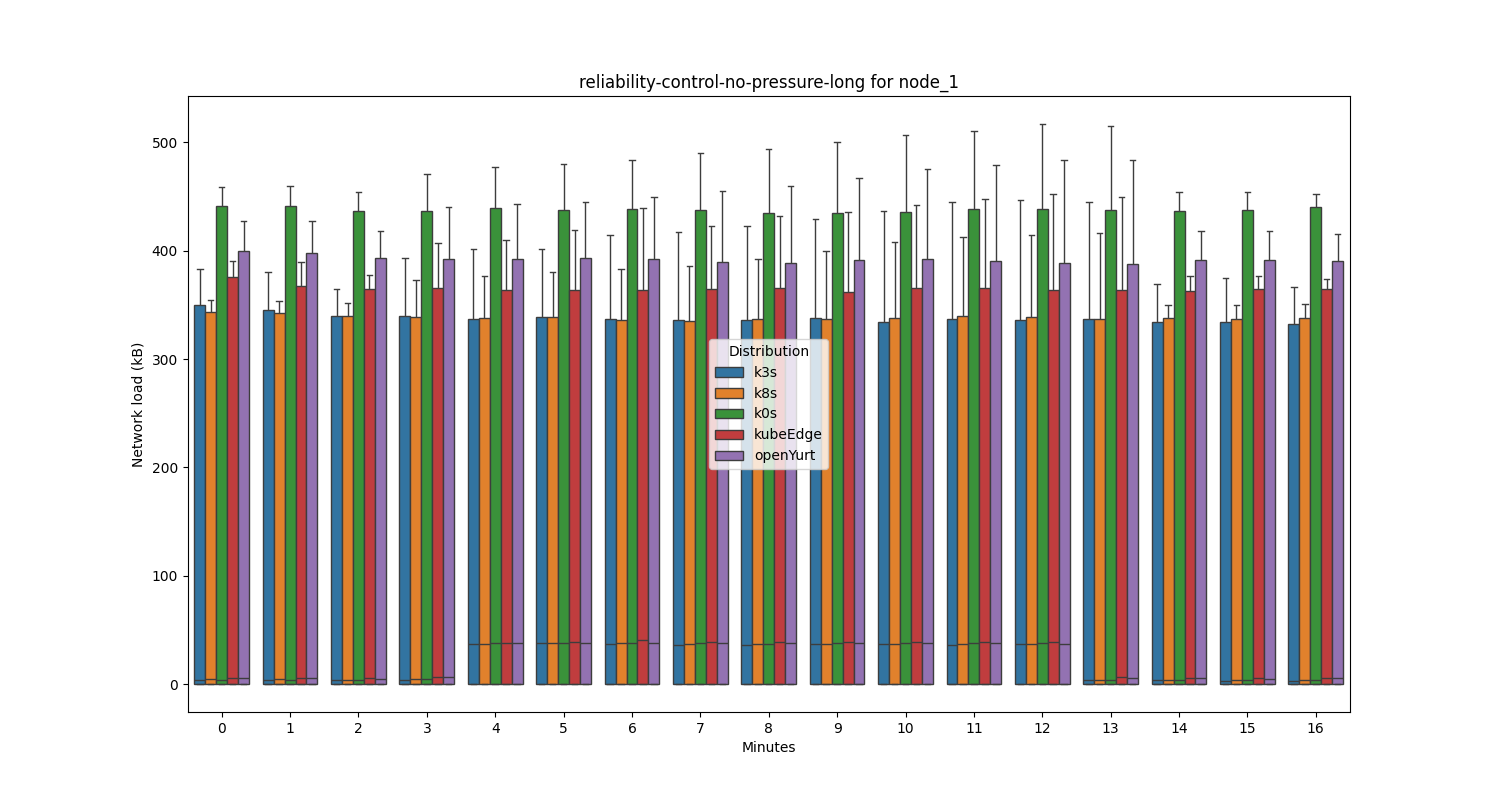
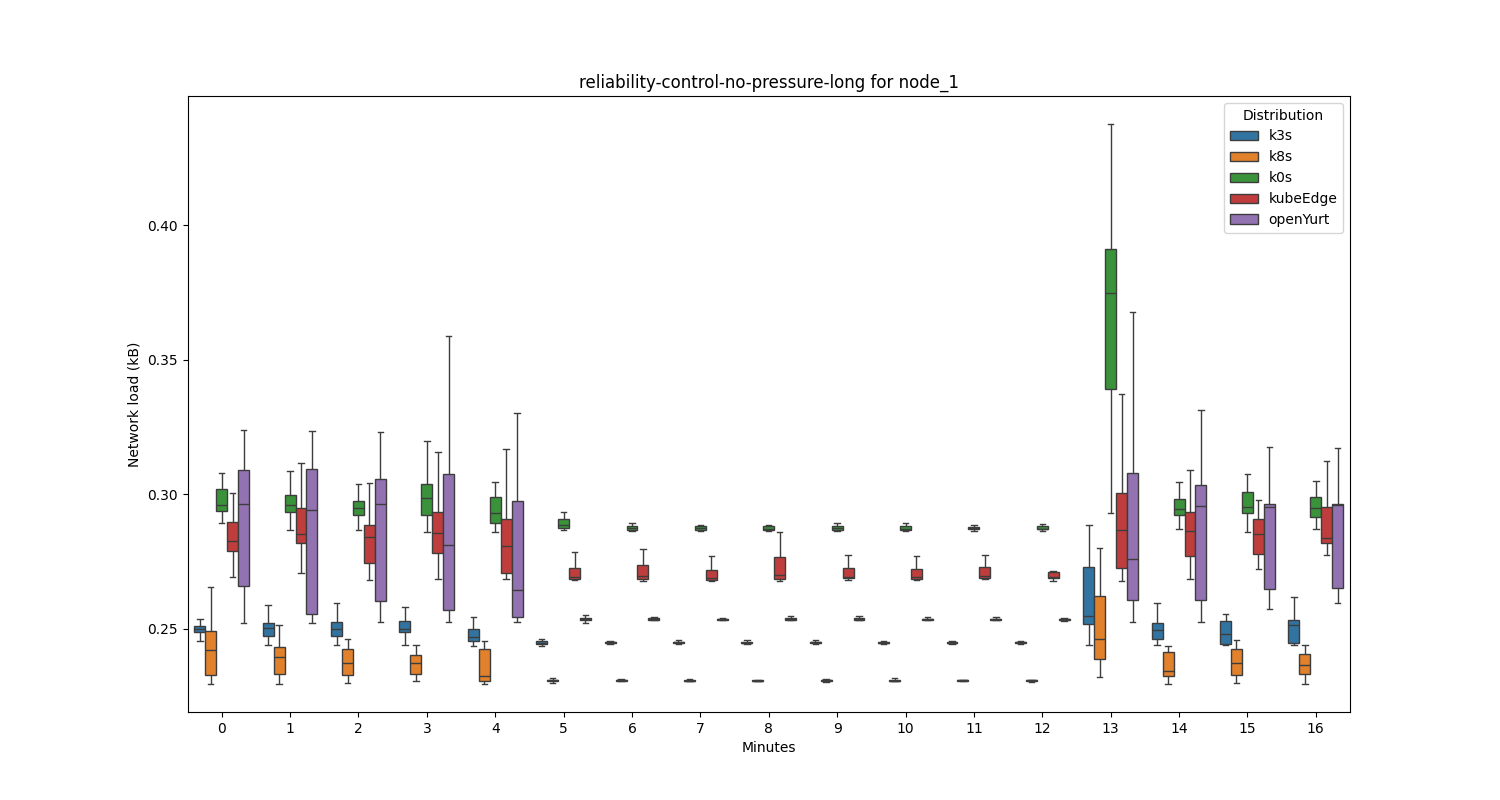
reliability-control | box

diff --git a/src/utils/box-plotting.py b/src/utils/box-plotting.py
@@ -158,16 +158,21 @@ distributions = ['k3s', 'k8s', 'k0s', 'kubeEdge', 'openYurt']
 testCases = [ 'reliability-control', 'reliability-control-no-pressure-long' ] 
 # testCases = [ 'reliability-worker-no-pressure-long'] # , 'reliability-worker-no-pressure-long' ]
 metrics = ['cpu', 'ram', 'net', 'disk'] # TODO: think how to present net and disk. # TOOD: ram should be in percentage (though 64gb and 4Gb are different, but percentage is more meaningful)
-files = []
-workersOnly=False
+# files = []
+workersOnly=True
 reliabilityTests=False
 def create_plots_time_series(plot_type='scatter'):
     for unit in metrics:
         for test in testCases:
+            files = [] 
             for dist in distributions:
                 for i in range(2, 5):
                     files.append(f'../k-bench-results/{dist}/{test}/{test}-{i}/{test}-{i}-{unit}.csv')
             ylabel = 'CPU Usage (%)' if unit == 'cpu' else 'Memory Usage (Mb)' if unit == 'ram' else 'Network load (kB)' if unit == 'net' else 'Disk Usage (%)'
+            
+            if test == 'reliability-control' or test == 'reliability-control-no-pressure-long':
+                workersOnly = False
+
             create_plots(files, f'{test}', 'Minutes', ylabel, toSave, plot_type, workersOnly, reliabilityTests)
             # create_plots(files, f'{test}', 'Minutes', 'Memory Usage (Mb)', toSave, plot_type, workersOnly, reliabilityTests)
             # create_plots(files, f'{test}', 'Minutes', 'Network load (kB)', toSave, plot_type, workersOnly, reliabilityTests)
